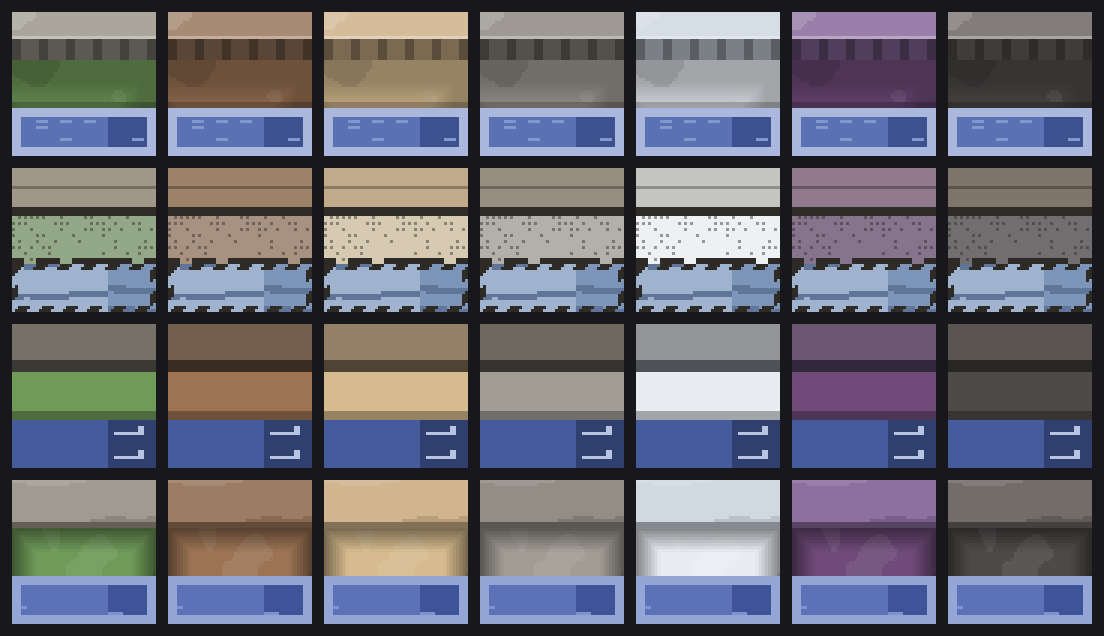
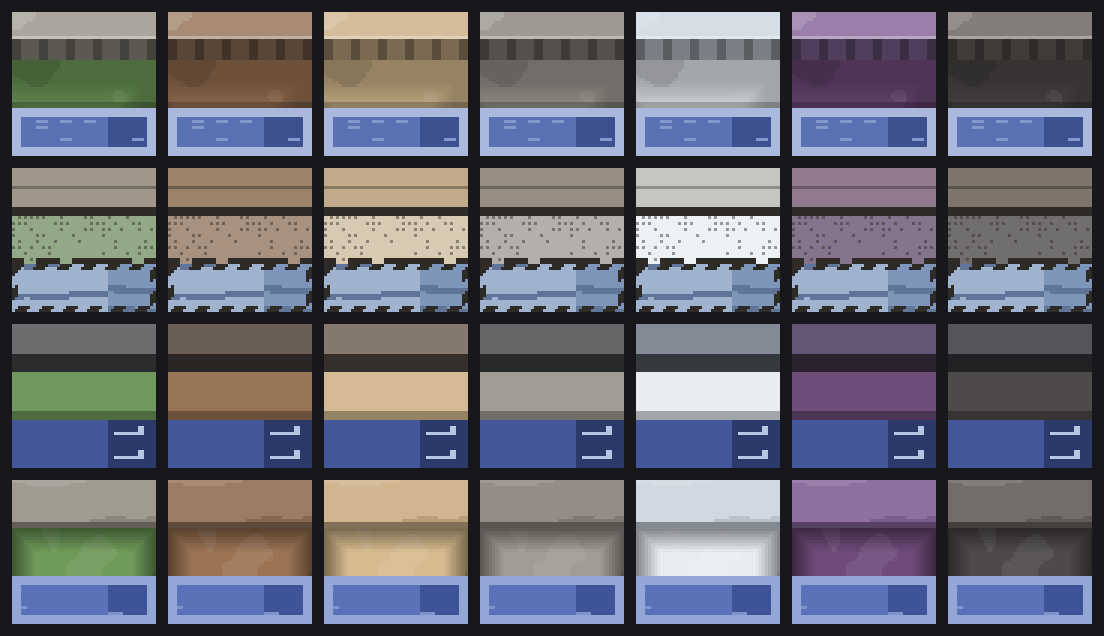
Linocut on Greenwood in four inks: a crop at the game's zoom and the whole board
The concept renderer answers its distance fields per pixel from the
cells within reach rather than storing them, so a 512 board costs the
same per pixel as the scene; a map document loads as a board (the wall
is the floor's wall, pines drawn as canopy), and a zoomed-out render
averages its samples the way the mipmaps do. Four linocut palettes
(slate, ochre, night, bone) render the scene, a 96x56 Greenwood crop
chosen for variety with heads set on the rock, and the whole map. The
carved bands widen to six logical px so they read at field zoom; the
gouges thin out.

Claude-Session: https://claude.ai/code/session_01EFcaTz8DCWCjiBUob9mJ9A

Changed region(s): [[0.0, 0.5377, 0.9855, 0.5975]]

diff --git a/docs/terrain-directions.md b/docs/terrain-directions.md
@@ -147,6 +147,32 @@ gunmetal further behind than the concept manages, and the marks have to
 stay rare or the board reads as rain. Presented as a direction, not a
 finished look.
 
+#### Linocut on a real map, in four inks
+
+`linocut-<ink>.png` is the scene, `linocut-<ink>-crop.png` a 96x56
+crop of Greenwood at the game's own zoom (chosen for variety: rock about
+half, a lake, a pine stand, two floor families, a few heads set on the
+rock beside the lane), and `linocut-<ink>-map.png` the whole 512 board
+at four pixels a tile with the samples averaged the way the mipmaps show
+it. The carved hand is the same in every one; the ink
+(`LINOCUT_PALETTES` in the script) is what changes:
+
+| ink | rock | floors | water |
+| --- | --- | --- | --- |
+| slate | cool grey-blue | as they are, a touch desaturated | blue |
+| ochre | burnt umber | warmed toward ochre | teal |
+| night | near-black with bone bands | deep and dark | ink blue |
+| bone | dark ink with white bands | pale bone | paper blue |
+
+What the map showed: at the game's zoom a Greenwood room is a big flat
+field, and a carved hand has to live with that. The lit and shaded bands
+on the rock's edges carry the drawing (they went from four logical
+pixels to six for it), and the gouges have to stay rare. Zoomed out, the
+bands become the map's own contour. Slate is the safe ink; ochre
+separates from gunmetal best; bone is the most linocut and the most
+legible zoomed out, and wants a lighter plate under the heads; night is
+a mood that would need the swarm's six hues to carry the board.
+
 ## The recommendation
 
 Mesa, with Chart's stipple at the foot of the cliff if the floor wants
